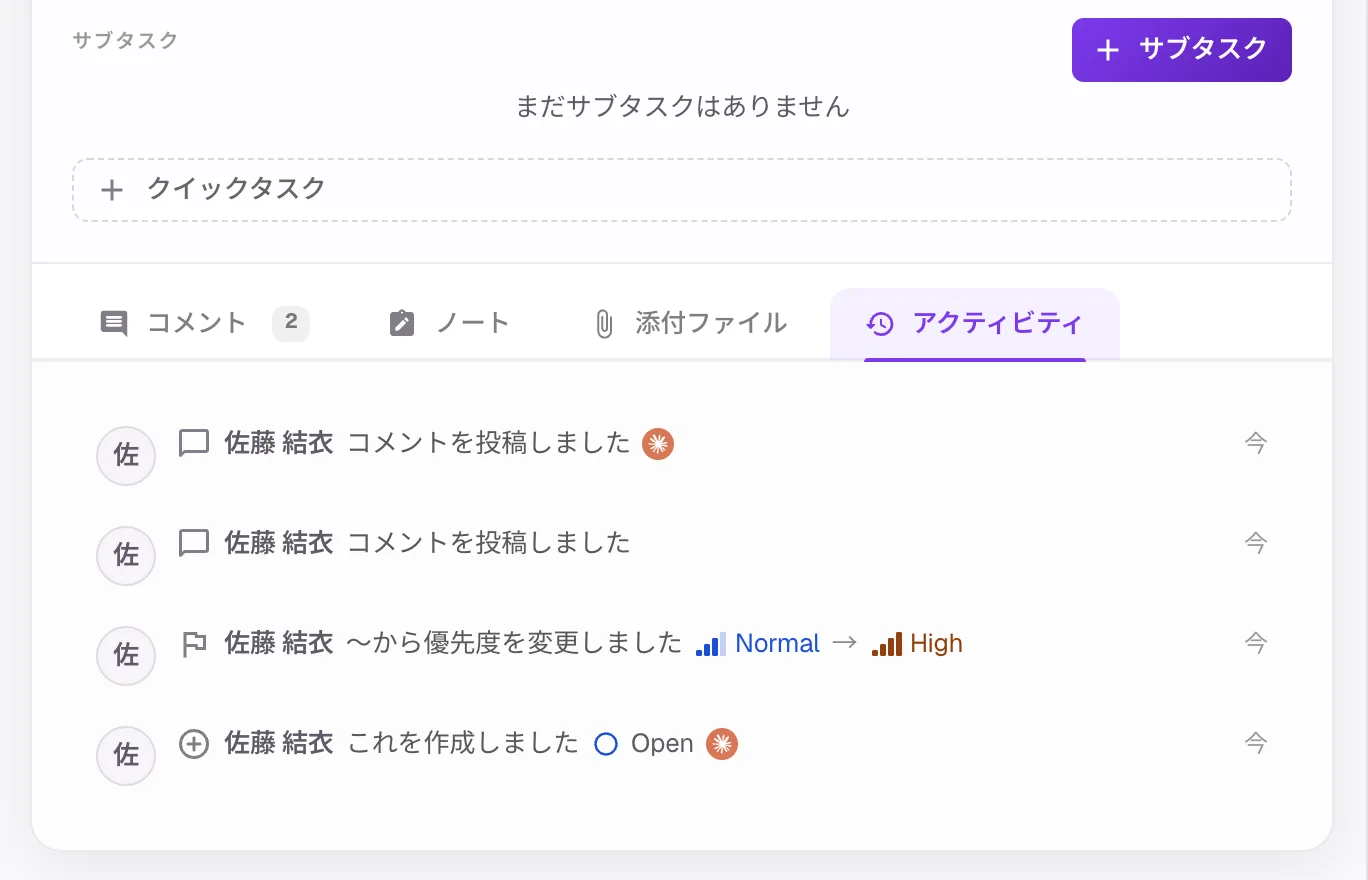
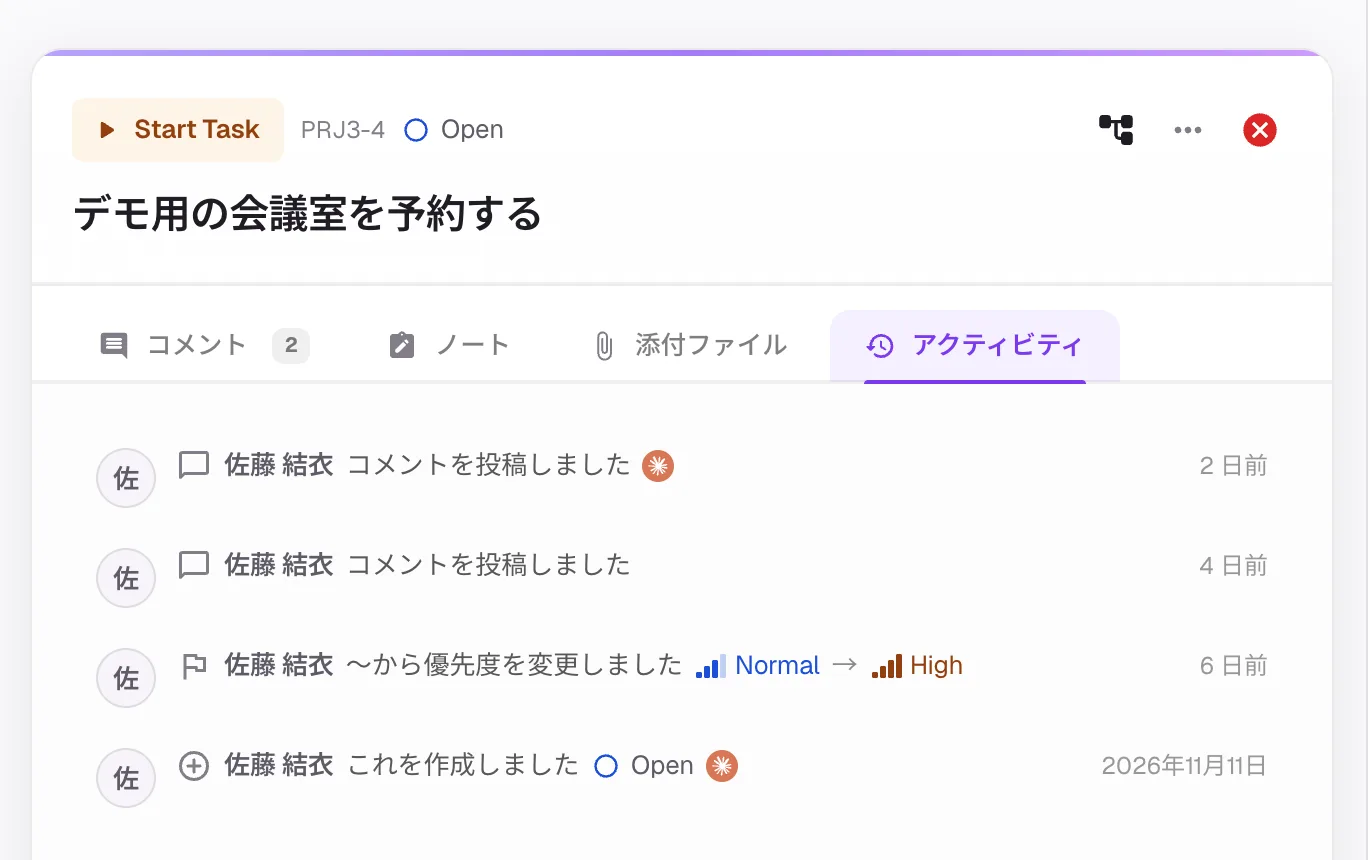
home hero: retake the record shots (task title above its Activity rows, dated, dark and phone crops)
The hero picture now shows the task title and the Activity feed together: the scene folds the
task's body (details, description, sub-tasks) away, which the app cannot do in one window, and the
rows read "2 days ago ... Nov 11" instead of "just now" (dates set in the isolated screenshot
database only; nothing about them is in the repo). New shots: record-dark, record-phone (a real
390 px layout, so the marks stay readable) and record-phone-dark, in en and ja at 1x and 2x.

The scene still refuses to shoot unless some rows carry Claude's mark and some do not, and it now
measures where the mark and a row without it are and fails if that differs from `callouts` in
shots.json, so the labels the page draws over the picture cannot drift from it.

diff --git a/src/lp/kit/shots.ts b/src/lp/kit/shots.ts
@@ -16,7 +16,18 @@ import shots from "./shots.json";
 export type ShotName = keyof typeof shots;
 
 /** The rectangle of one shot; a language may override parts of it (an answer can run longer in Japanese). */
-export type ShotRect = { width: number; height: number; x: number; y: number };
+export type ShotRect = {
+    width: number;
+    height: number;
+    x: number;
+    y: number;
+    /**
+     * Where the callouts the page draws over the picture point, as fractions of it (0 to 1, from
+     * the top left). `scripts/lp-screenshots.mjs` measures them on every retake and refuses a
+     * picture where they moved, so a label never points at nothing.
+     */
+    callouts?: Record<"claude" | "you", { x: number; y: number }>;
+};
 
 export const SHOTS = shots as Record<
     ShotName,
@@ -24,8 +35,8 @@ export const SHOTS = shots as Record<
 >;
 
 export const shotRect = (name: ShotName, lang: "ja" | "en"): ShotRect => {
-    const { width, height, x, y } = SHOTS[name];
-    return { width, height, x, y, ...SHOTS[name][lang] };
+    const { width, height, x, y, callouts } = SHOTS[name];
+    return { width, height, x, y, callouts, ...SHOTS[name][lang] };
 };
 
 export const SHOT_NAMES = Object.keys(shots) as ShotName[];
